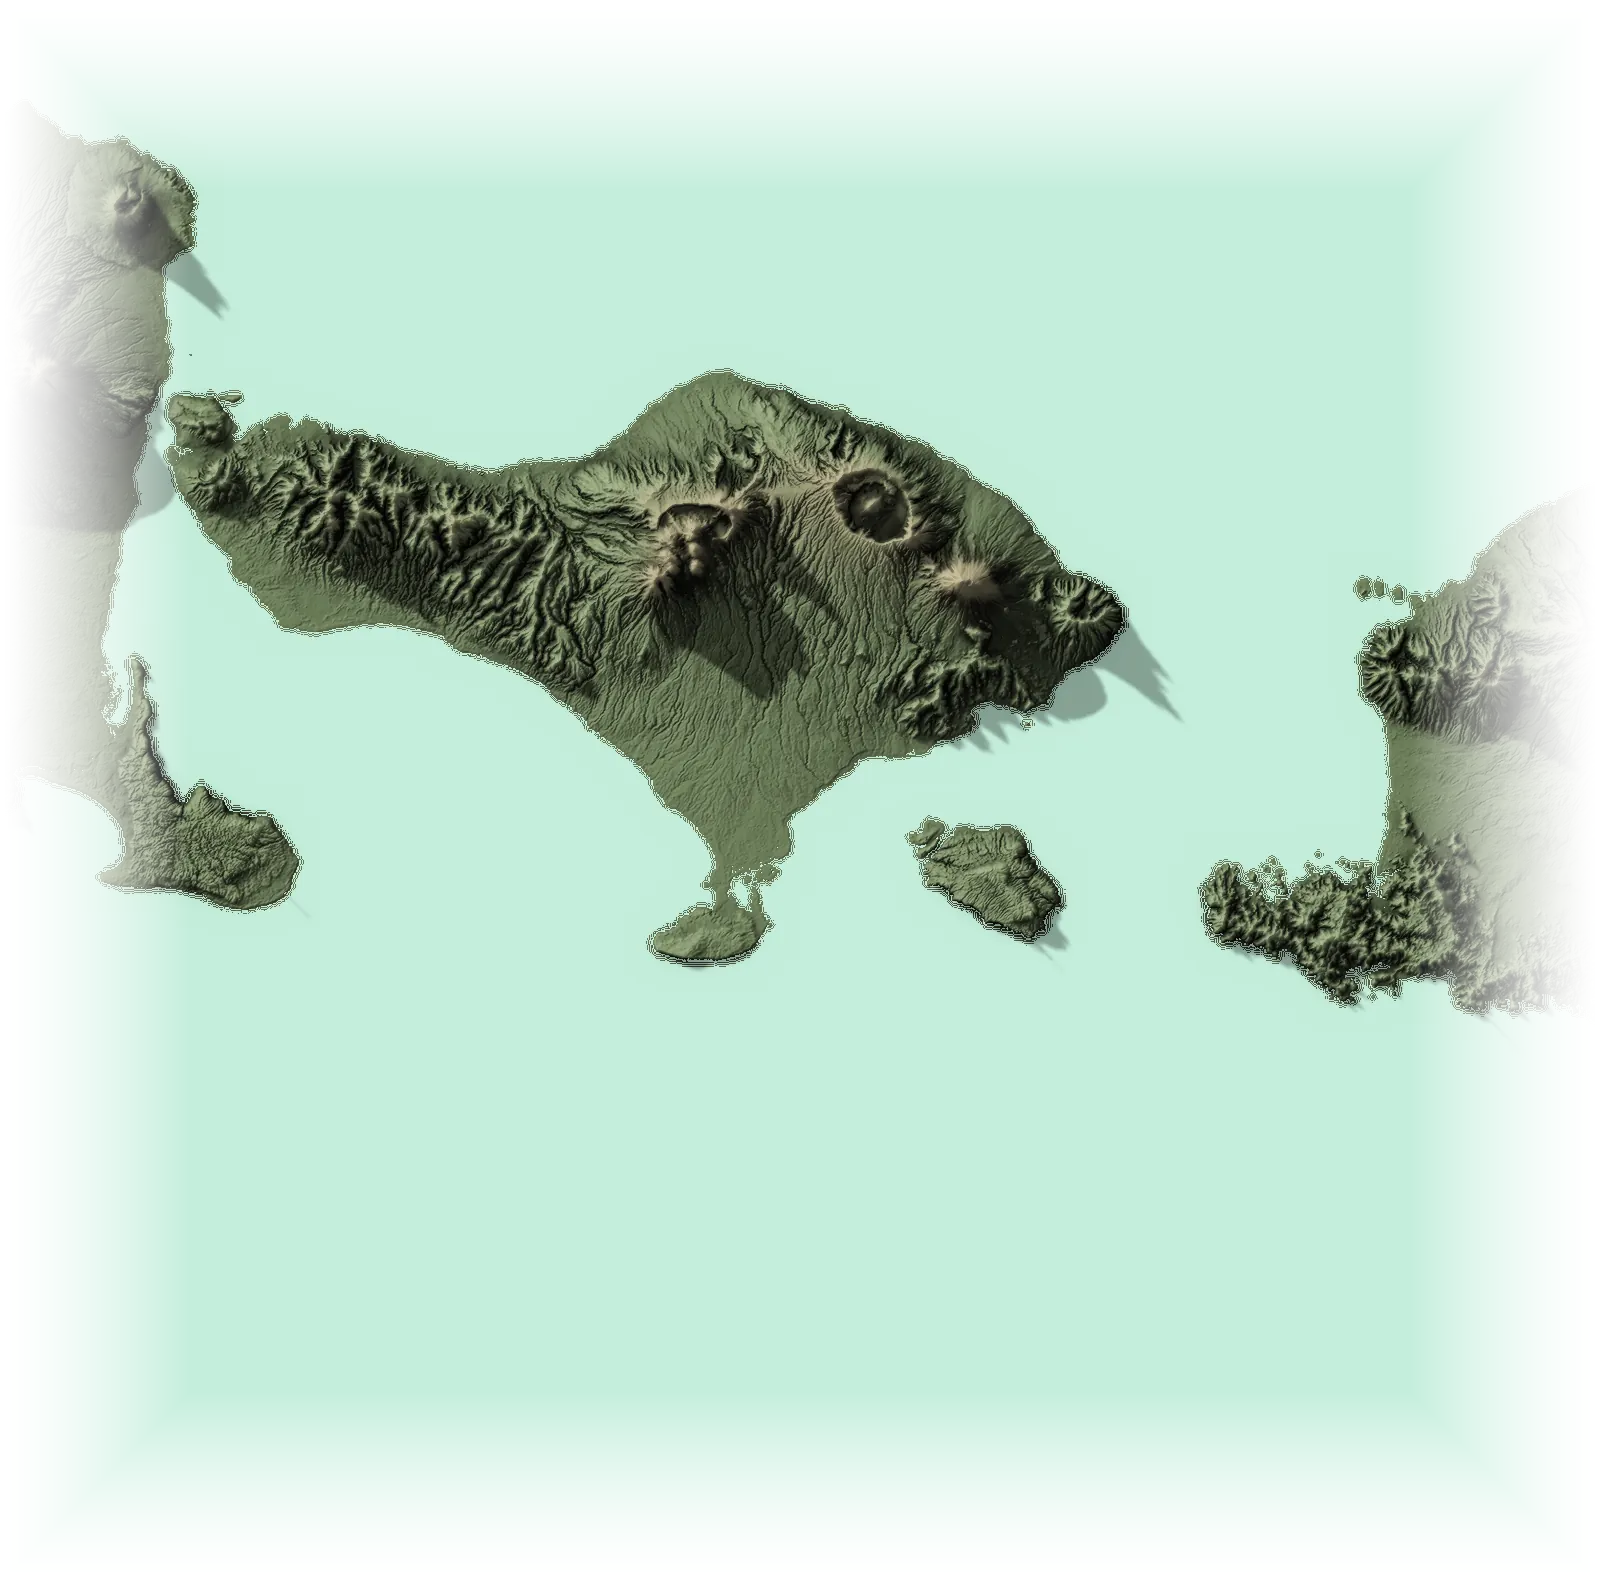
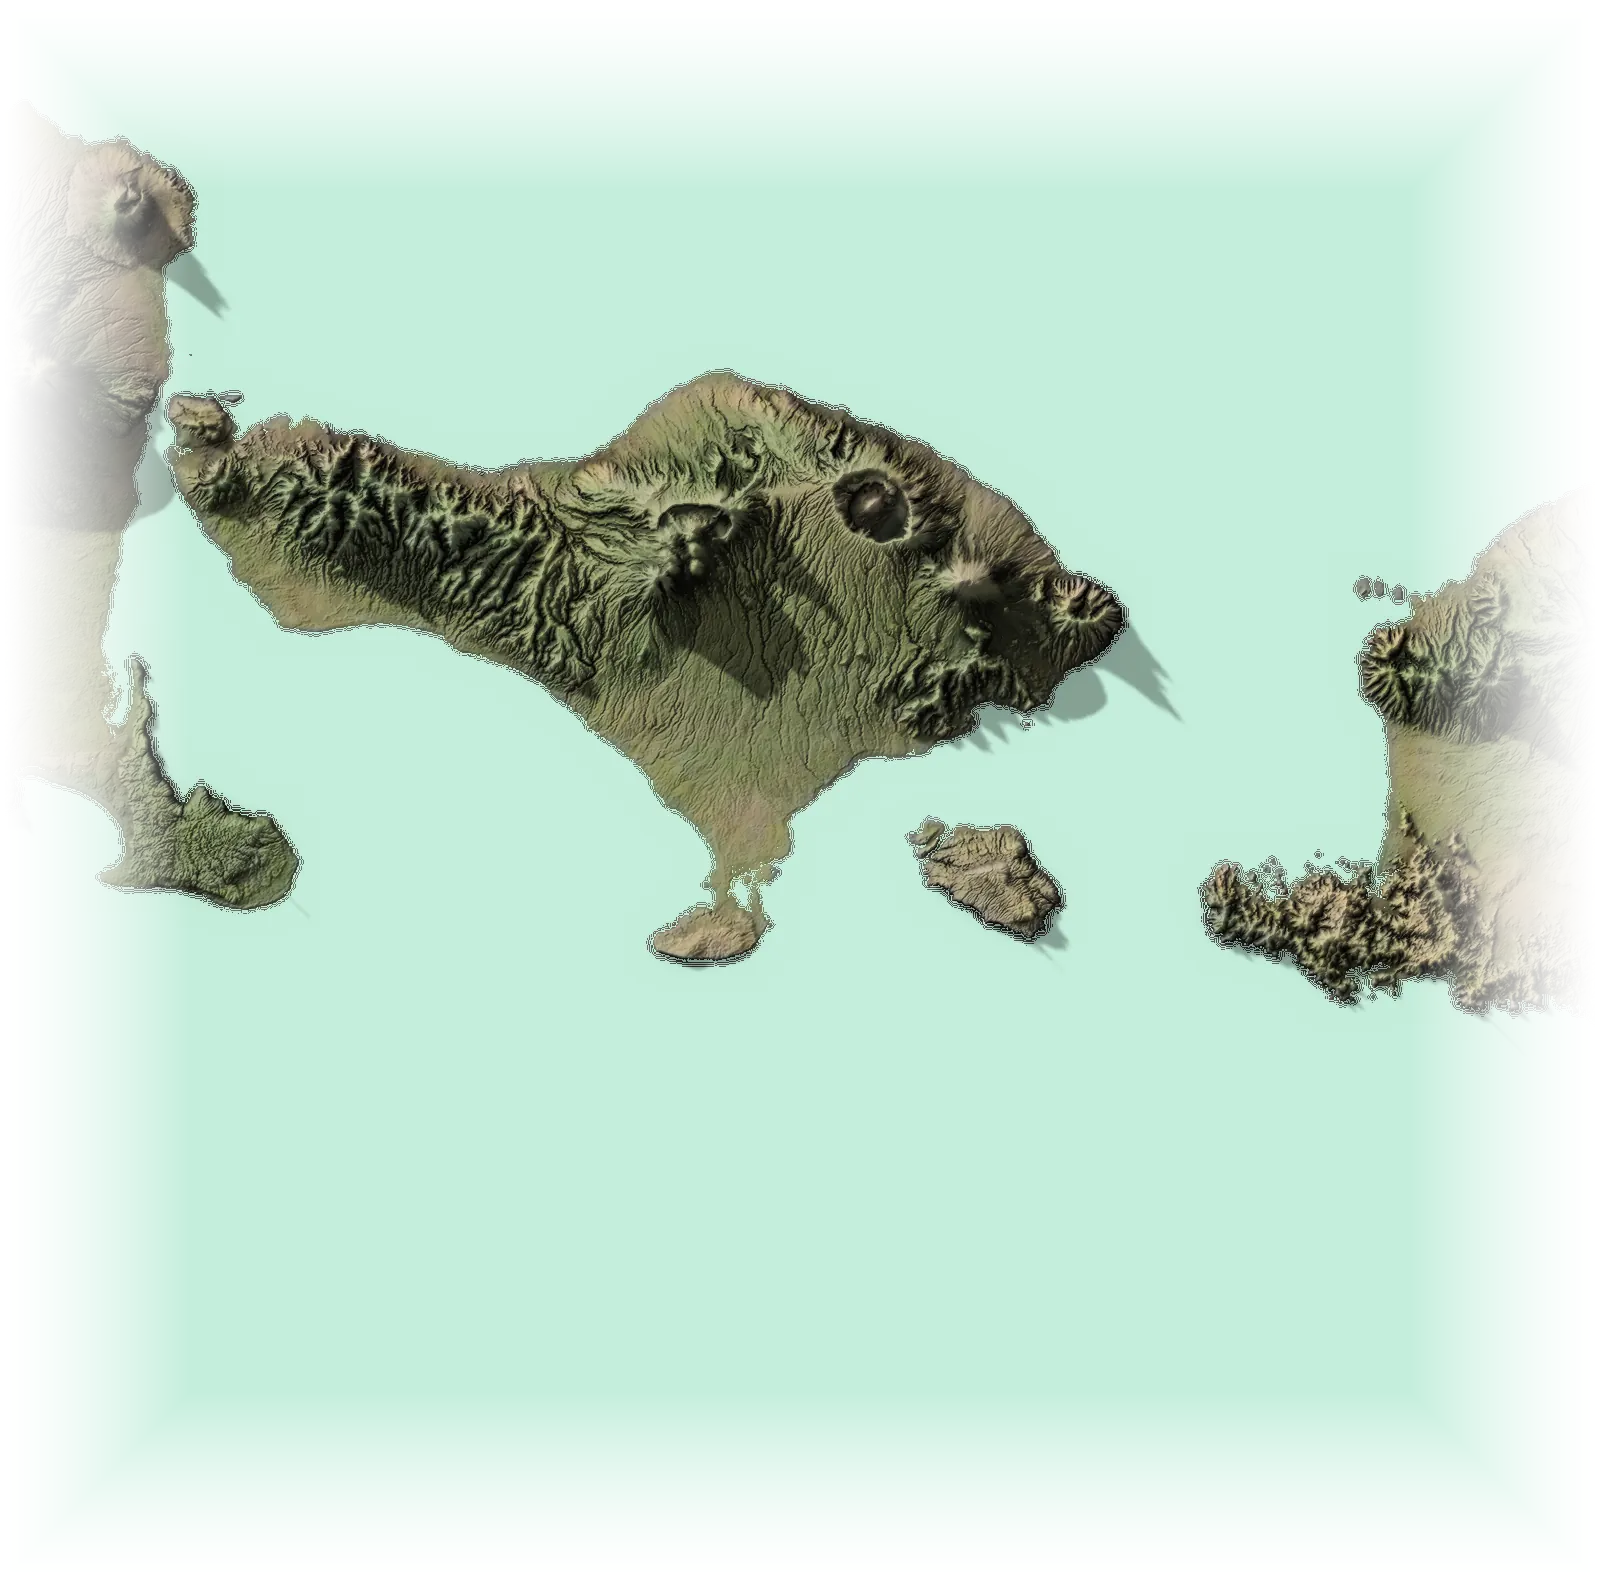
Regional greens and browns: colour each region from a graded colour guide; lakes from data
The relief map now takes its land colours from NASA Blue Marble (used only as a hidden
colour guide), graded in Lab space into the reference tones, so the greens and browns
change from region to region. Lakes come from the same data; only Pangong and Tso Moriri
are still drawn by hand.

Claude-Session: https://claude.ai/code/session_01KVdNw979WxCLGLb6ytawBs

diff --git a/public/map.js b/public/map.js
@@ -88,7 +88,7 @@ const IMG={ocean:null,land1:null,land3:null,crop:{}};let RELIEF={};
 /* Map colours. One look ships at a time; its relief images live in data/looks/<dir>/ (build with tools/build_relief.py <dir>).
    satellite: natural, muted land on one flat, calm ocean colour (the client's reference: a "satellite map, flat ocean" poster).
    vivid:     jade, saffron and ultramarine with a depth-shaded sea. To switch back: LOOK=LOOKS.vivid and restore data/looks/vivid from git. */
-const LOOKS={relief:{dir:'relief',flat:false,calm:true,sun:'255,248,232',sunA:.1,vig:'30,80,78',vigA:.07,sea:['#c4eedb','#a6d5c9'],shade:'14,70,66',shadeK:1.2,shadeLen:1.4,shimmer:.07,
+const LOOKS={relief:{dir:'relief',flat:false,calm:true,dataLakes:true,sun:'255,248,232',sunA:.1,vig:'30,80,78',vigA:.07,sea:['#c4eedb','#a6d5c9'],shade:'14,70,66',shadeK:1.2,shadeLen:1.4,shimmer:.07,
                coast:'rgba(236,255,247,.5)',label:'rgba(58,108,110,.72)',land:'rgba(78,62,40,.5)'},
              satellite:{dir:'satellite',flat:true,sun:'255,236,205',sunA:.3,vig:'4,12,26',sea:['#1c3a54','#1c3a54'],shade:'0,6,18',shimmer:.1},
              vivid:{dir:'vivid',flat:false,sun:'255,214,140',sunA:.55,vig:'10,30,90',sea:['#36dcd6','#0f78c4'],shade:'6,28,80',shimmer:.22}};
@@ -133,7 +133,7 @@ function drawStatic(){
   // lakes and rivers
   c.setTransform(...T);
   const lakes=[...LAKES.map(l=>l),...DEST.flatMap(d=>(R[d.id].lakes||[]).map(([la,lo,rx,ry,rot])=>[lo,la,rx,ry,rot||0,R[d.id].lakeColor]))];
-  for(const [lo,la,rx,ry,rot,lc] of lakes){if(lo+rx<vx0||lo-rx>vx1||-la+ry<vy0||-la-ry>vy1)continue;if(rx*V.k<1.5)continue;
+  for(const [lo,la,rx,ry,rot,lc] of lakes){if(LOOK.dataLakes&&!lc)continue; // real lakes come from the colour data; only signature lakes (Pangong, Tso Moriri) are drawnif(lo+rx<vx0||lo-rx>vx1||-la+ry<vy0||-la-ry>vy1)continue;if(rx*V.k<1.5)continue;
     c.save();c.translate(lo,-la);c.rotate((rot||0)*Math.PI/180);c.scale(rx,ry);
     const lg=c.createRadialGradient(0,0,0,0,0,1);const col=lc||'#4f98ad';lg.addColorStop(0,col);lg.addColorStop(.82,col);lg.addColorStop(1,'rgba(120,170,170,0)'); // soft natural shoreline
     c.globalAlpha=.88;c.fillStyle=lg;c.beginPath();c.arc(0,0,1,0,7);c.fill();c.globalAlpha=1;c.restore()}

diff --git a/public/index.html b/public/index.html
@@ -7,7 +7,7 @@
 <meta name="description" content="We help you unbucket your bucket list. Zoom out to zoom in: pick a place, see where to go, what to taste and what to take away, then go.">
 <link rel="preconnect" href="https://fonts.googleapis.com">
 <link href="https://fonts.googleapis.com/css2?family=Fraunces:opsz,wght@9..144,300;9..144,600&family=Inter:wght@400;500;600&display=swap" rel="stylesheet">
-<link rel="stylesheet" href="styles.css?v=19">
+<link rel="stylesheet" href="styles.css?v=20">
 </head>
 <body>
 
@@ -80,13 +80,13 @@
   <div class="sheet" id="sheet" role="dialog" aria-modal="true"></div>
 </aside>
 
-<script src="facts.js?v=19"></script>
-<script src="media/photos.js?v=19"></script>
-<script src="offers.js?v=19"></script>
-<script src="routes.js?v=19"></script>
-<script src="wildlife.js?v=19"></script>
-<script src="bucket.js?v=19"></script>
-<script src="app.js?v=19"></script>
-<script src="map.js?v=19"></script>
+<script src="facts.js?v=20"></script>
+<script src="media/photos.js?v=20"></script>
+<script src="offers.js?v=20"></script>
+<script src="routes.js?v=20"></script>
+<script src="wildlife.js?v=20"></script>
+<script src="bucket.js?v=20"></script>
+<script src="app.js?v=20"></script>
+<script src="map.js?v=20"></script>
 </body>
 </html>

diff --git a/tools/build_relief.py b/tools/build_relief.py
@@ -29,6 +29,58 @@ def tile(z, x, y):
     a = np.asarray(Image.open(p).convert('RGB'), dtype=np.float32)
     return a[..., 0] * 256 + a[..., 1] + a[..., 2] / 256 - 32768
 
+BM_URL = 'https://gibs.earthdata.nasa.gov/wmts/epsg3857/best/BlueMarble_NextGeneration/default/GoogleMapsCompatible_Level8/{z}/{y}/{x}.jpeg'
+def bm_tile(z, x, y):
+    # NASA Blue Marble (cloud-free): used only as a guide to where land is green, brown or red; restyled in grade()
+    p = f'{S}/bm/{z}/{x}/{y}.jpg'
+    if not os.path.exists(p):
+        os.makedirs(os.path.dirname(p), exist_ok=True)
+        for a in range(5):
+            try:
+                with urllib.request.urlopen(urllib.request.Request(BM_URL.format(z=z, x=x, y=y), headers={'User-Agent': 'UnbucketlistMapBuilder/1.0'}), timeout=60) as r:
+                    open(p, 'wb').write(r.read()); break
+            except Exception:
+                time.sleep(2 * (a + 1))
+        else:
+            raise RuntimeError(f'bm tile {z}/{x}/{y} failed')
+    return np.asarray(Image.open(p).convert('RGB'), dtype=np.float32)
+
+def albedo(lon, lat, z):
+    z = int(min(8, z)); W_ = lon.shape[1]
+    x0, x1 = float(lon.min()), float(lon.max()); y0, y1 = float(lat.min()), float(lat.max())
+    tx0, ty1 = merc_px(np.array(x0), np.array(y0), z); tx1, ty0 = merc_px(np.array(x1), np.array(y1), z)
+    tx0, tx1, ty0, ty1 = int(tx0 // 256), min(2 ** z - 1, int(tx1 // 256)), max(0, int(ty0 // 256)), min(2 ** z - 1, int(ty1 // 256))
+    jobs = [(z, x, y) for y in range(ty0, ty1 + 1) for x in range(tx0, tx1 + 1)]
+    with ThreadPoolExecutor(8) as ex: tiles = list(ex.map(lambda j: bm_tile(*j), jobs))
+    w, h = tx1 - tx0 + 1, ty1 - ty0 + 1; m = np.zeros((h * 256, w * 256, 3), np.float32)
+    for i, t in enumerate(tiles): yy, xx = divmod(i, w); m[yy * 256:(yy + 1) * 256, xx * 256:(xx + 1) * 256] = t
+    px, py = merc_px(lon, lat, z)
+    return np.dstack([sample(m[..., c], px - tx0 * 256, py - ty0 * 256) for c in range(3)])
+
+def rgb2lab(c):
+    c = c / 255; c = np.where(c > .04045, ((c + .055) / 1.055) ** 2.4, c / 12.92)
+    M = np.array([[.4124, .3576, .1805], [.2126, .7152, .0722], [.0193, .1192, .9505]], np.float32)
+    xyz = (c @ M.T) / np.array([.9505, 1, 1.089], np.float32)
+    f = np.where(xyz > .008856, np.cbrt(xyz), 7.787 * xyz + 16 / 116)
+    return np.dstack([116 * f[..., 1] - 16, 500 * (f[..., 0] - f[..., 1]), 200 * (f[..., 1] - f[..., 2])])
+
+def lab2rgb(l):
+    fy = (l[..., 0] + 16) / 116; fx = fy + l[..., 1] / 500; fz = fy - l[..., 2] / 200
+    f = np.dstack([fx, fy, fz]); xyz = np.where(f > .2069, f ** 3, (f - 16 / 116) / 7.787) * np.array([.9505, 1, 1.089], np.float32)
+    Mi = np.array([[3.2406, -1.5372, -.4986], [-.9689, 1.8758, .0415], [.0557, -.2040, 1.0570]], np.float32)
+    c = xyz @ Mi.T; c = np.where(c > .0031308, 1.055 * np.clip(c, 0, None) ** (1 / 2.4) - .055, 12.92 * c)
+    return np.clip(c * 255, 0, 255)
+
+def grade(rgb):
+    # restyle real-world colour into the reference's tones: lifted, muted, greens pulled towards olive
+    L = rgb2lab(rgb); l, a, b = L[..., 0], L[..., 1], L[..., 2]
+    g = PAL['grade']; C = np.hypot(a, b); h = np.arctan2(b, a)
+    l2 = g['l0'] + g['l1'] * l
+    green = np.clip(np.cos(h - math.radians(135)), 0, 1) ** 2            # how 'green' a hue is
+    h2 = h - math.radians(g['olive']) * green                          # greens lean yellow-olive
+    C2 = C * g['c'] * (1 + g['cg'] * green)
+    return lab2rgb(np.dstack([l2, C2 * np.cos(h2), C2 * np.sin(h2)])), L
+
 def mosaic(z, x0, x1, y0, y1):
     jobs = [(z, x % (2 ** z), y) for y in range(y0, y1 + 1) for x in range(x0, x1 + 1)]
     with ThreadPoolExecutor(8) as ex: tiles = list(ex.map(lambda j: tile(*j), jobs))
@@ -86,7 +138,8 @@ LOOKS = {
  'relief': dict(mode='relief', dry='#e0c193', mid='#a3ab7c', wet='#6f8559', boreal='#5f6a52', dune='#e8cc9c', rock='#a3866a', high='#908b80',
                 peak='#bdb8b0', snow='#ffffff', warm='#fff4e0', cool='#2e2c24', sea=['#c4eedb', '#b3e3d3', '#a6d5c9', '#99c9be', '#8ebeb4'],
                 sat=.94, lift=0, tint=.35, sea_relief=.2, exag_world=24, exag_crop=2.6, local=.45, world_z=5, world_sizes=[(1024, 1024), (4096, 3072)],
-                cast=.5, cast_sea=.32, ao=.38, sun_alt=24),
+                cast=.5, cast_sea=.32, ao=.38, sun_alt=24, bm_world_z=4,
+                grade=dict(w=.9, l0=47, l1=.5, c=1.0, cg=.35, olive=8)),
  # golden hour: emerald and honey, coral light, plum shadows, turquoise lagoons, sapphire sea
  'golden': dict(dry='#f3cf86', mid='#c6d06f', wet='#3f9a5b', boreal='#2f7a5a', dune='#f0b971', rock='#c98d63', high='#e9bf9f', snow='#fff7ee',
                 warm='#ffcf8f', cool='#5b3f7d', sea=['#a8efe2', '#69d9d3', '#33b6c9', '#2584b4', '#1b5694'], sat=1.28, lift=.03, tint=.4),
@@ -124,7 +177,7 @@ def landmask(lon, lat):
         d.polygon([((px - x0) / (x1 - x0) * (W - 1), (py - y0) / (y1 - y0) * (H - 1)) for px, py in pts], fill=255)
     return np.asarray(im) > 127
 
-def colourise(elev, lon, lat, exag, palette=None, patches=()):
+def colourise(elev, lon, lat, exag, palette=None, patches=(), alb=None):
     H, W = elev.shape
     if PAL.get('mode') == 'relief':
         # Greenland (its west and east coasts, so Baffin Island, Quebec and Iceland stay out) and Antarctica
@@ -159,7 +212,16 @@ def colourise(elev, lon, lat, exag, palette=None, patches=()):
     if PAL.get('mode') == 'relief':  # olive-sage greens, darker in the boreal north and wet tropics
         c = mix(c, hexrgb(PAL['boreal']), (sstep(48, 60, al) * (1 - sstep(66, 72, al)) * .75 + sstep(.85, 1, G) * .5) * sstep(.4, .75, G) * (.55 + .45 * N))
     c = c * (0.94 + 0.12 * N)[..., None]            # gentle mottling across plains
-    if palette is not None:  # each place leans to its own character (arid Ladakh, lush Bali), in this look's colours
+    LAKE = np.zeros(elev.shape, bool)
+    if alb is not None and PAL.get('grade'):
+        al_ = np.dstack([smooth(alb[..., i], max(1, W // 1400)) for i in range(3)])       # soften: colour only, no photo texture
+        gc, L0 = grade(al_)
+        known = (np.abs(lat) < 84.5)[..., None]
+        c = np.where(known, mix(c, gc, np.full(elev.shape, PAL['grade']['w'], np.float32)), c)
+        # water inside the land (Great Lakes, Baikal, Victoria...): take the sea's colour
+        LAKE = (L0[..., 2] < -6) & (L0[..., 0] < 45) & (elev > 0) & (np.abs(lat) < 84.5)
+        LAKE = smooth(LAKE.astype(np.float32), 1) > .5
+    if palette is not None and alb is None:  # each place leans to its own character (arid Ladakh, lush Bali), in this look's colours
         pc = hexrgb(PAL['dry']) * (1 - palette) + hexrgb(PAL['wet']) * palette
         c = mix(c, pc, np.full(elev.shape, PAL['tint'], np.float32))
     for kind, la, lo, r in patches:
@@ -169,9 +231,10 @@ def colourise(elev, lon, lat, exag, palette=None, patches=()):
     # height: green lowlands -> warm rock -> pale high rock -> snow above a latitude-aware snowline
     land = elev > 0
     if PAL.get('mode') == 'relief':
-        c = mix(c, hexrgb(PAL['rock']), sstep(500, 1800, elev) * .55)
-        c = mix(c, hexrgb(PAL['high']), sstep(2200, 4200, elev) * .75)
-        c = mix(c, hexrgb(PAL['peak']), sstep(4800, 6000, elev) * .6)
+        hw = .4 if alb is not None else 1                     # real colour already carries the browns of high ground
+        c = mix(c, hexrgb(PAL['rock']), sstep(500, 1800, elev) * .55 * hw)
+        c = mix(c, hexrgb(PAL['high']), sstep(2200, 4200, elev) * .75 * (.3 + .7 * hw))
+        c = mix(c, hexrgb(PAL['peak']), sstep(4800, 6000, elev) * .6 * (.3 + .7 * hw))
     else:
         c = mix(c, hexrgb(PAL['rock']), sstep(900, 2800, elev) * .6)
         c = mix(c, hexrgb(PAL['high']), sstep(3600, 5200, elev) * .6)
@@ -234,6 +297,8 @@ def colourise(elev, lon, lat, exag, palette=None, patches=()):
     seac = sea * (1 + kk[..., None] * PAL.get('sea_relief', .25))
     if PAL.get('flat_sea'): seac = np.broadcast_to(hexrgb(PAL['sea'][0]), c.shape)
     seac = seac * (1 - PAL.get('cast_sea', 0) * CAST)[..., None]   # the land throws its shadow onto the sea
+    lakec = np.broadcast_to(hexrgb(PAL['sea'][1]), c.shape) * (1 + kk[..., None] * .05)
+    c = np.where(LAKE[..., None], lakec, c)
     out = np.where(land[..., None], c, seac)
     out = out + (255 - out) * PAL['lift']  # pastel looks are lighter overall
     return np.clip(out, 0, 255).astype(np.uint8), land
@@ -247,7 +312,8 @@ def world():
         lat = np.linspace(90 - 90 / H, -90 + 90 / H, H)[:, None].repeat(W, 1)
         px, py = merc_px(lon, lat, z); el = sample(m, px, py)
         el[lat < -84] = 2500  # Antarctic plateau beyond the tiles
-        rgb, land = colourise(el, lon, lat, exag=PAL.get('exag_world', 9))
+        alb = albedo(lon, lat, PAL.get('bm_world_z', 4)) if PAL.get('grade') else None
+        rgb, land = colourise(el, lon, lat, exag=PAL.get('exag_world', 9), alb=alb)
         im = Image.fromarray(rgb)
         if SAVE != W: im = im.resize((SAVE, SAVE // 2), Image.LANCZOS)
         im.save(OUT + f'world-land-{SAVE // 1024}k.jpg', quality=82, optimize=True, progressive=True)
@@ -282,7 +348,8 @@ def crops(only=None):
         lon = np.linspace(x0, x1, W)[None, :].repeat(H, 0); lat = np.linspace(y1, y0, H)[:, None].repeat(W, 1)
         px, py = merc_px(lon, lat, z); el = sample(m, px - tx0 * 256, py - ty0 * 256)
         exag = (2.2 if span > 1 else 3.2) * PAL.get('exag_crop', 1)
-        rgb, land = colourise(el, lon, lat, exag=exag, palette=DEST_GREEN.get(rid), patches=r.get('patches', []))
+        alb = albedo(lon, lat, z) if PAL.get('grade') else None
+        rgb, land = colourise(el, lon, lat, exag=exag, palette=DEST_GREEN.get(rid), patches=r.get('patches', []), alb=alb)
         # feathered edges so the close-up melts into the world layer
         yy, xx = np.mgrid[0:H, 0:W]; e = np.minimum.reduce([xx, W - 1 - xx, yy, H - 1 - yy]).astype(np.float32)
         alpha = (np.clip(e / (min(W, H) * .12), 0, 1) ** 1.5 * 255).astype(np.uint8)

diff --git a/CLAUDE.md b/CLAUDE.md
@@ -25,6 +25,9 @@ Small fixes (typos, one-line tweaks) can be batched into the next deploy.
   height tints, latitude-aware snowline, NW sun). Current look: **relief**, matched to the client's reference (Kuzeyoku "Relief Style World
   Map (Flat Ocean)" wall maps): seafoam sea with soft sea-floor relief, olive/sage lowlands, sand deserts, tan uplands, taupe plateaus, white ice,
   crisp low-sun hillshade, land casting a teal shadow onto the sea, atlas lettering (continents in spaced caps, seas in italics).
+  Regional colour: NASA Blue Marble (GIBS tiles) is used only as a hidden colour guide (albedo), graded in Lab space into the reference tones
+  (`grade` in the relief look: lightness lift, olive hue shift, chroma), so greens/browns vary by region (Siberia vs Europe vs Sahel vs Australia).
+  Lakes come from that colour data (`LOOK.dataLakes`); only signature lakes with a colour in routes.js (Pangong, Tso Moriri) are drawn by hand.
   World layer is built from z5 terrain at 4096 px and saved at 3072 (crisper). `LOOK.calm` turns off the dusk tint and tilt-shift blur and
   keeps the vignette light: the client wants the colours clean, like the printed reference. Prices are INR (`money()` in app.js).
   Earlier looks (vivid, satellite) are in git history; `LOOKS.satellite` / `LOOKS.vivid` stay defined in map.js. Only `public/data/looks/relief/`
